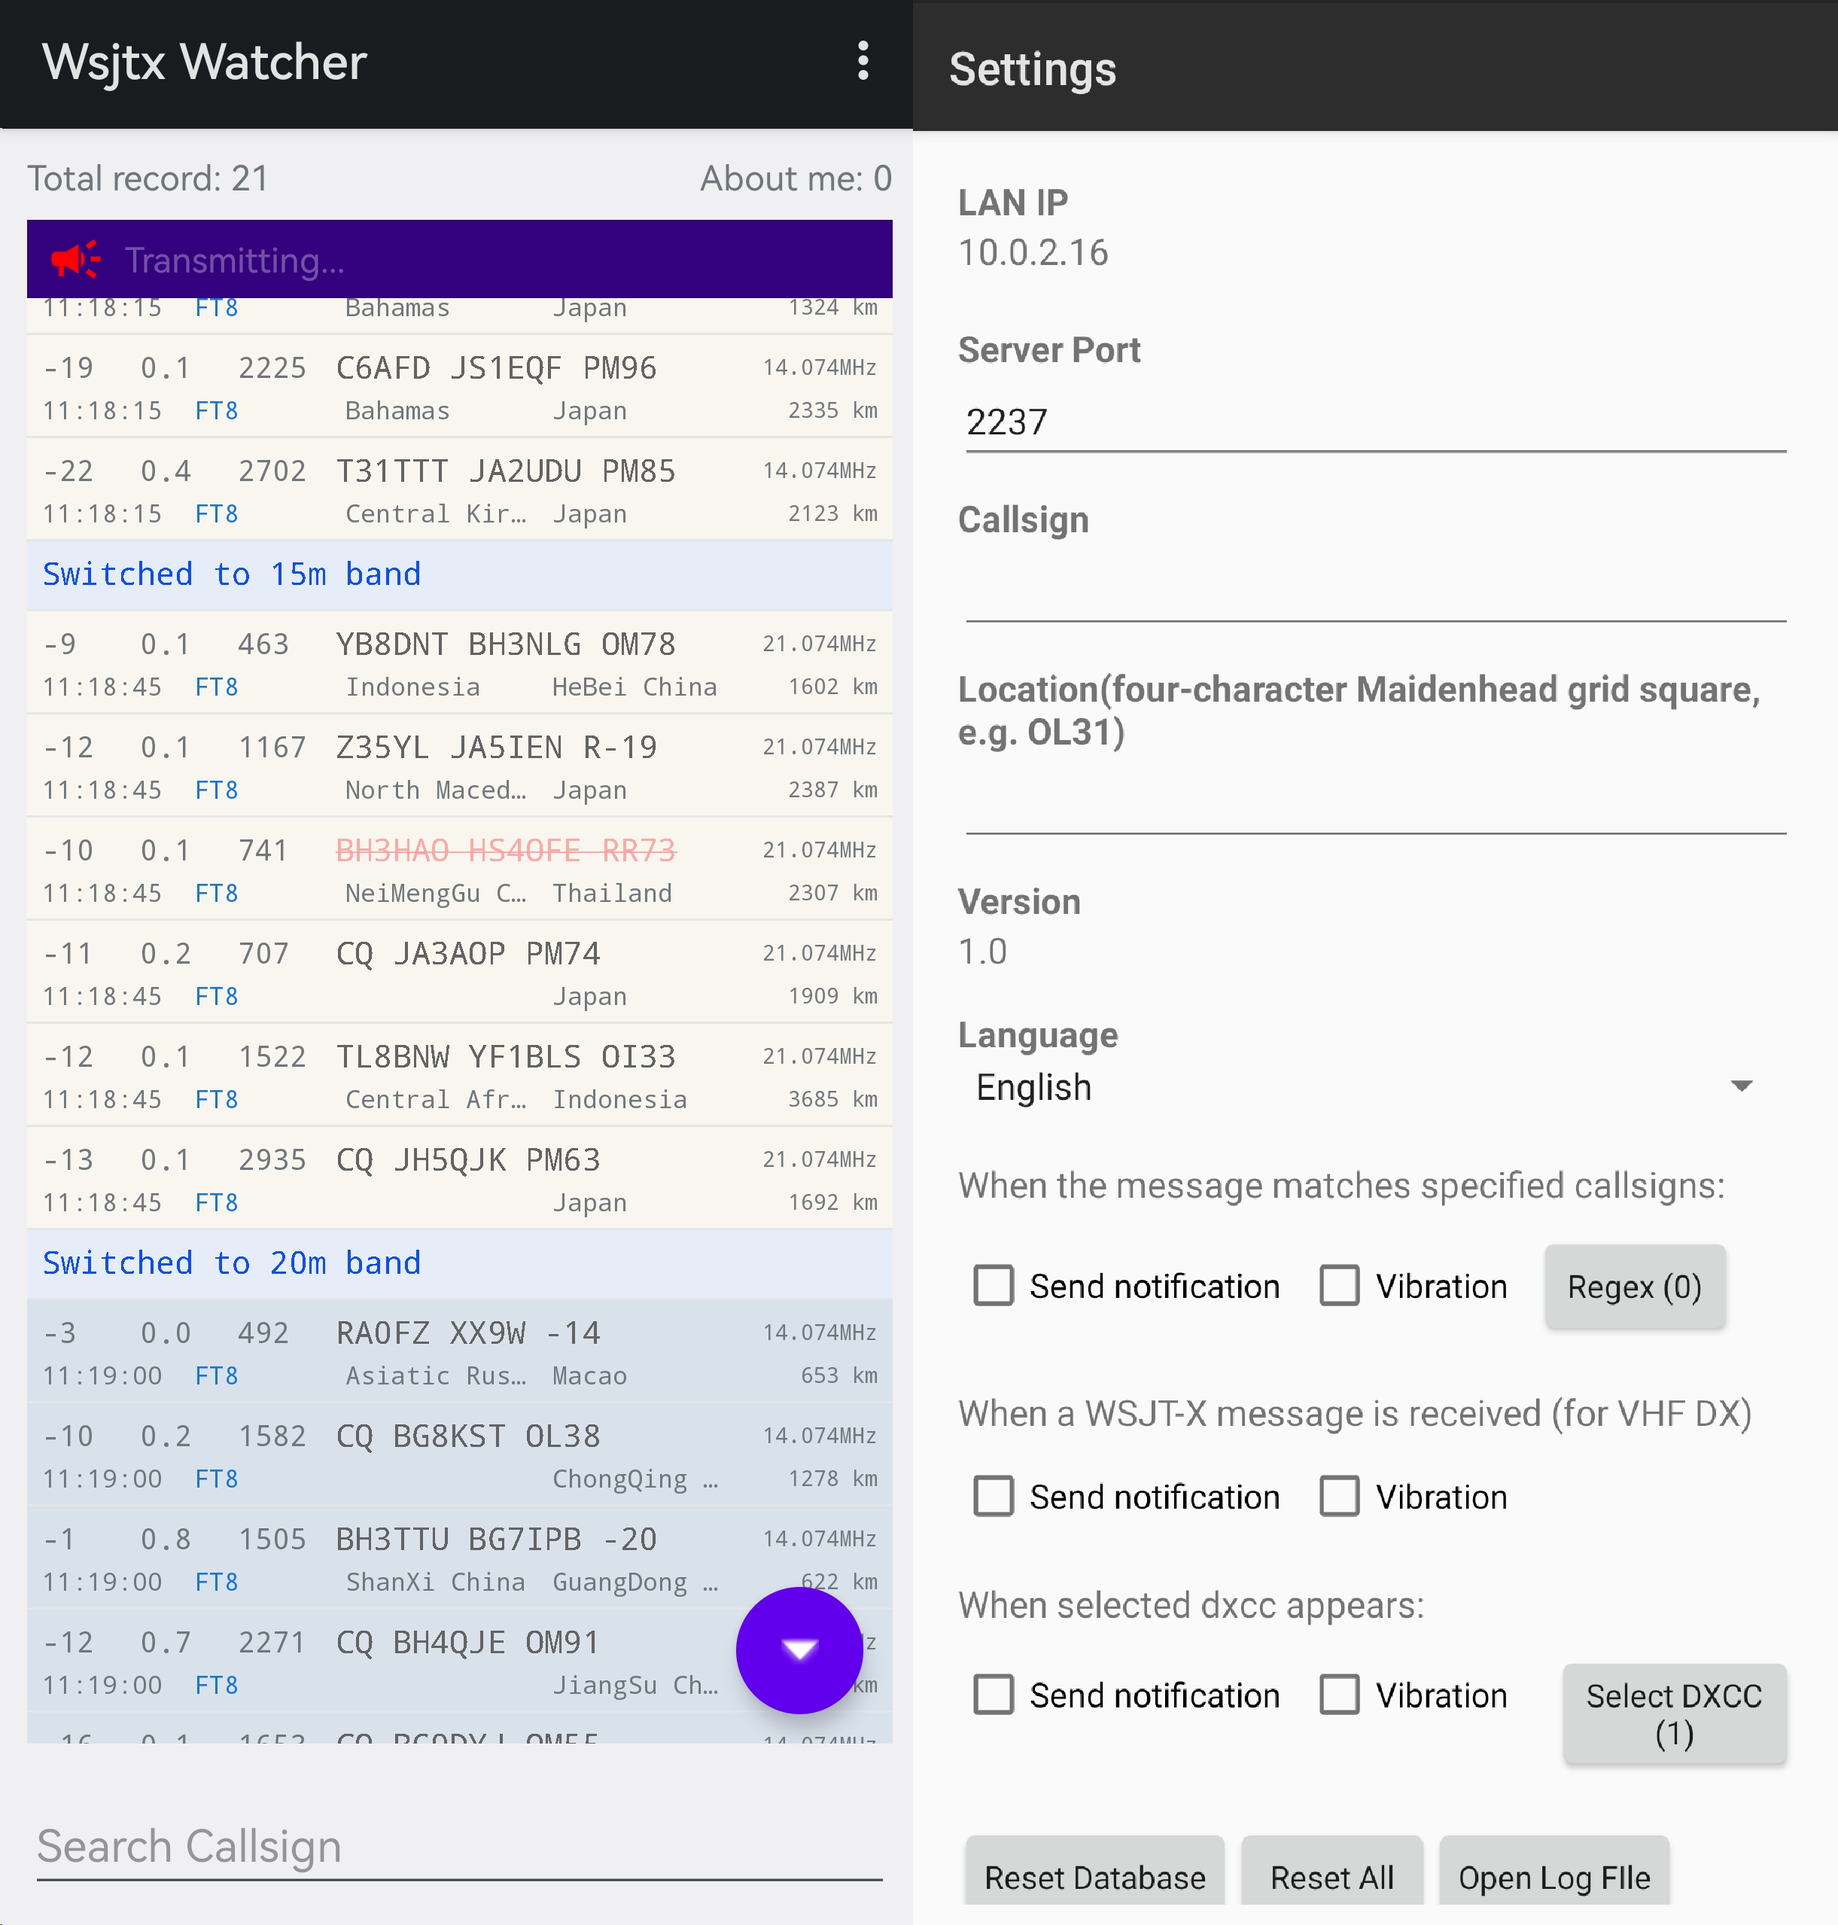
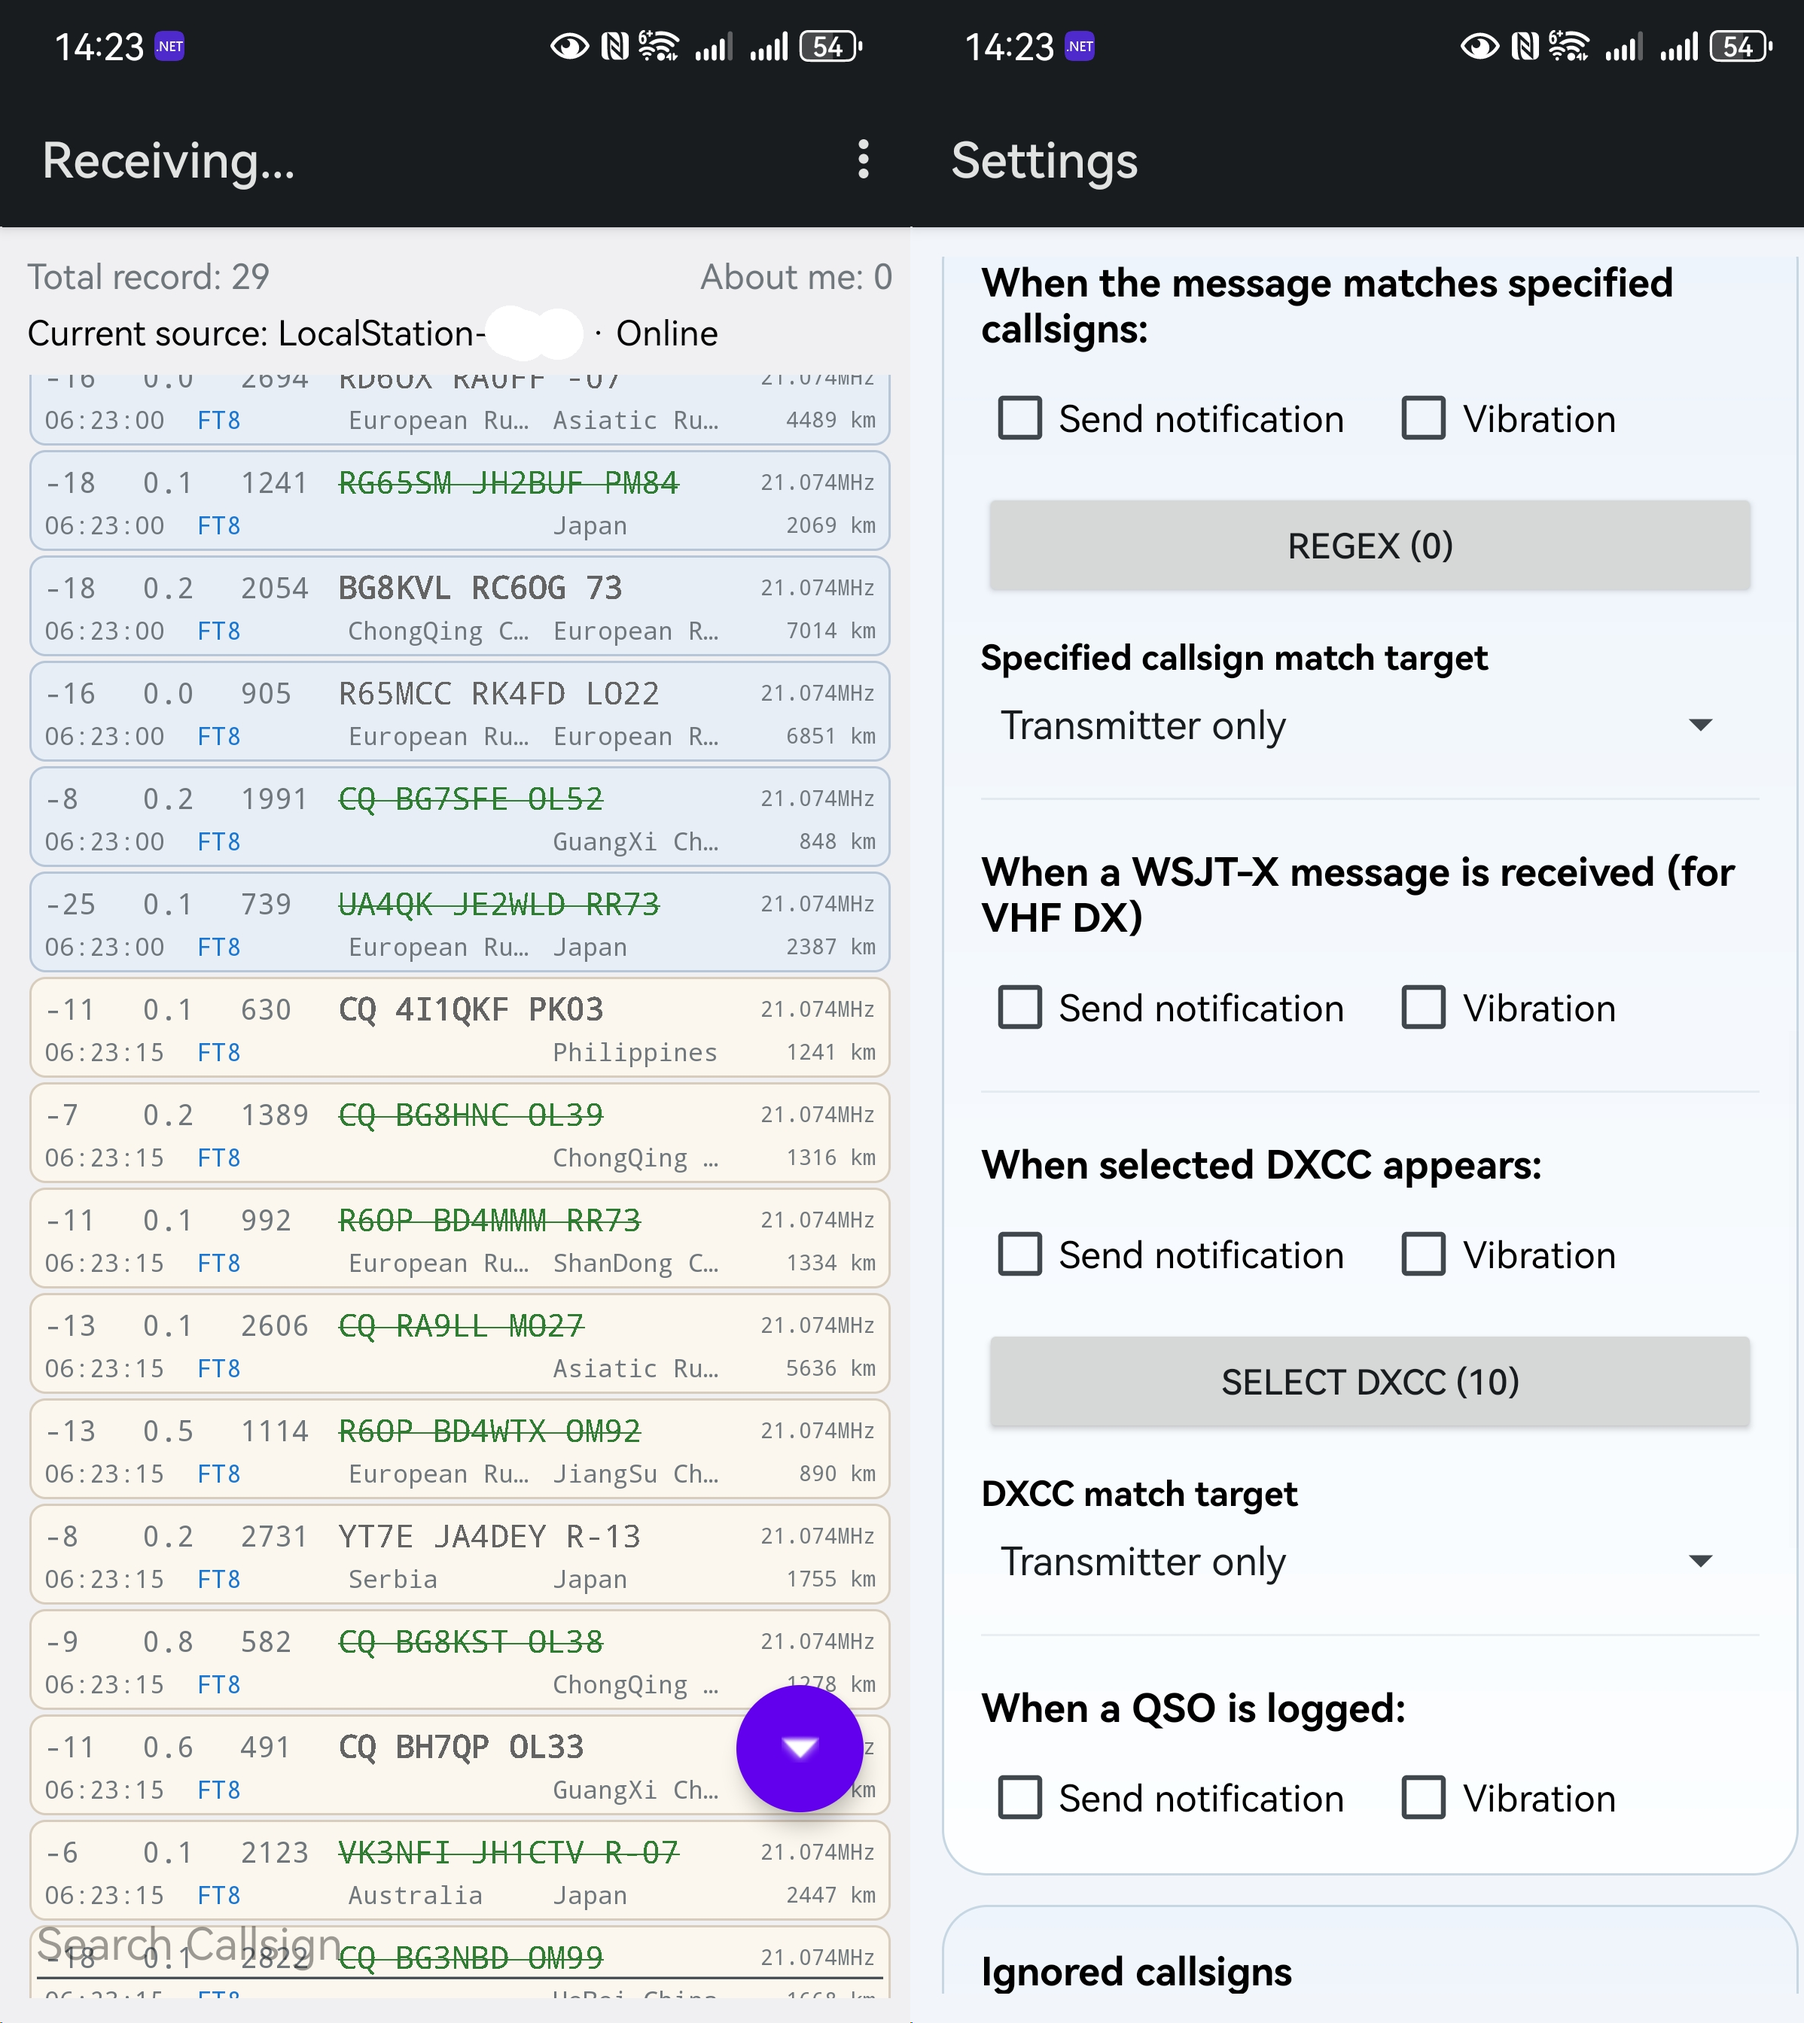
Update Readme

diff --git a/readme.md b/readme.md
@@ -73,9 +73,11 @@ Make sure the computer running WSJT-X / JTDX and the phone are on the same local
    - `Tenant ID`
 6. Save settings.
 7. Return to the main screen and tap `Start Service`.
-8. Open `Select source` and choose the relay source you want to monitor.
+8. Return to settings page and Open `Select source` and choose the relay source you want to monitor.
 
 If this is the first successful connection, the app will pair with the server certificate automatically by storing its fingerprint. If the server certificate changes later, use `Re-pair server` and connect again.
+
+![](./md_assets/page7.jpg)
 
 ## Settings Guide
 
